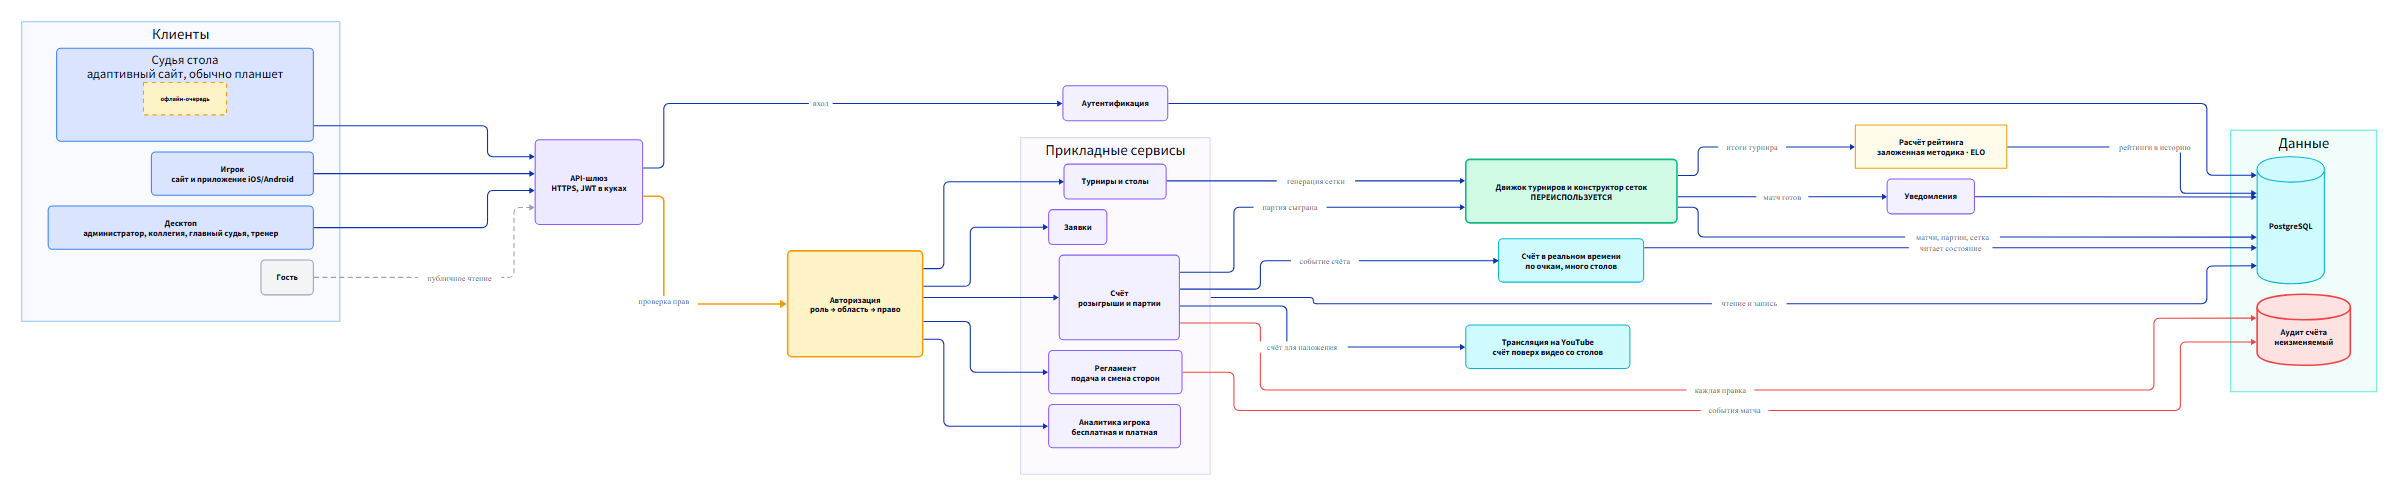
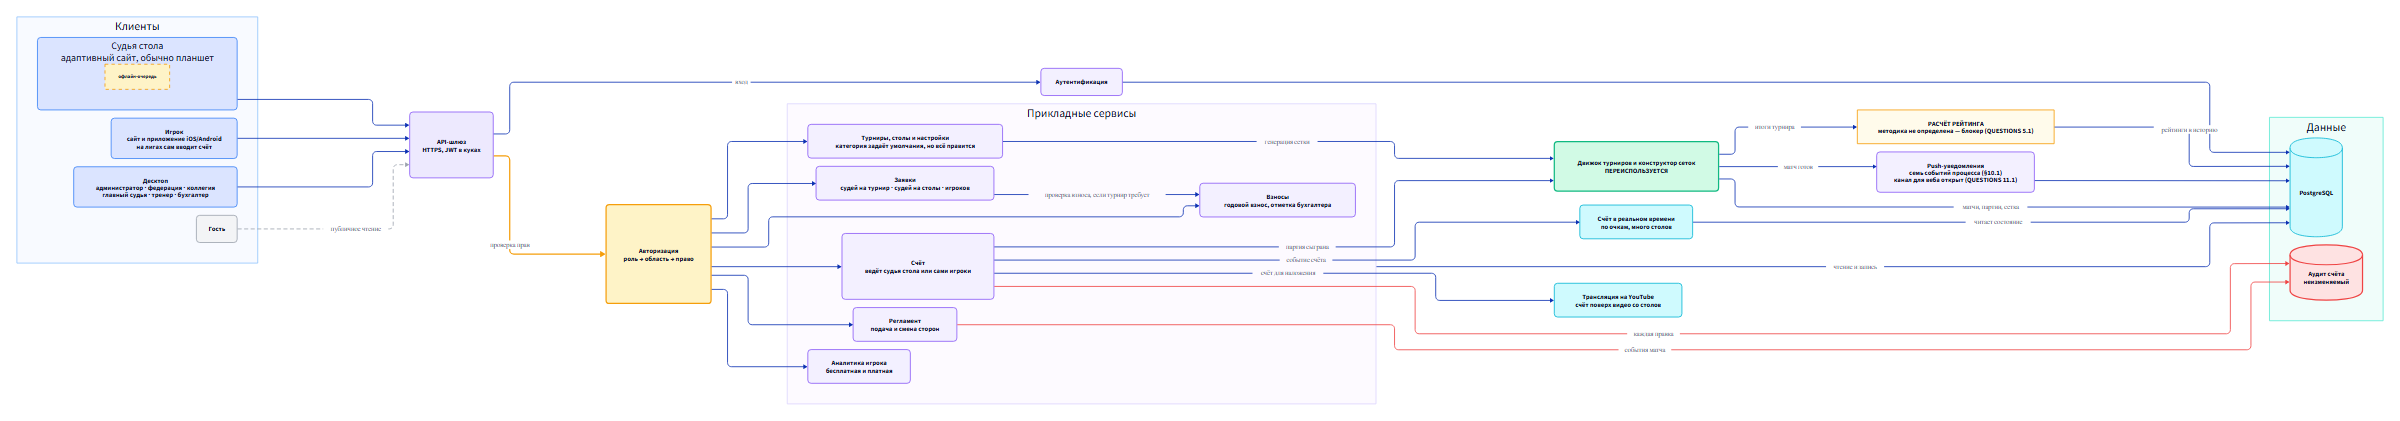
docs: системный дизайн под текущее ТЗ
ARCHITECTURE.md писался до трёх категорий турниров, девяти ролей, взносов
и ввода счёта самими игроками. Обновлены схема, mermaid и решения:

* девять ролей вместо семи, добавлены федерация, коллегия, бухгалтер
* сервис взносов: заявка проверяет взнос, но только если турнир требует
* счёт как два разных источника, а не два режима одного процесса
* push вынесен в решения: события известны, канал доставки нет
* категория турнира описана как набор флагов, а не enum с поведением

Главная правка по существу: рейтинг больше не заявлен как "ELO с
фиксированными коэффициентами". Это было наше предположение, а ТЗ §7.1
ссылается на несуществующее Приложение А. Теперь и в схеме, и в тексте
он помечен блокером со ссылкой на QUESTIONS 5.1.

diff --git a/ARCHITECTURE.md b/ARCHITECTURE.md
@@ -17,11 +17,18 @@
 | Роль | Устройство | Почему так |
 |---|---|---|
 | Администратор системы | **десктоп** | аккаунты, организации, настройки, публикация контента |
-| Главный судья | **десктоп** | создание и ведение турнира, конструктор сетки, назначения, модерация заявок |
+| Федерация | **десктоп** | полный доступ ко всему; смотрит, а не управляет |
+| Председатель судейской коллегии | **десктоп** | заводит турнир, назначает судью, утверждает систему проведения и протокол |
+| Главный судья турнира | **десктоп** | конструктор сетки, набор судей столов, заявки игроков, вызов пар |
 | Судья стола | **адаптивный сайт, обычно планшет** | ведёт протокол за столом; нужен крупный счёт и кнопки регламента; работает и с телефона |
+| Бухгалтер | **десктоп** | проверяет оплату годового взноса и отмечает её |
 | Тренер, представитель | **десктоп** | формирует список игроков, подаёт заявку |
-| Игрок | **сайт и приложение iOS/Android** | в зале между матчами и дома; смотрит свой матч и аналитику |
+| Игрок | **сайт и приложение iOS/Android** | в зале между матчами и дома; смотрит свой матч и аналитику. На лигах и любительских **сам вводит счёт** |
 | Гость | любое, веб | только чтение |
+
+Приложение есть только у игрока. Все остальные роли работают с адаптивного
+сайта, и это упирается в открытый вопрос: push в браузер это другая технология,
+а вызов на стол судье нужен мгновенно (QUESTIONS 11.1).
 
 ---
 
@@ -32,7 +39,7 @@ flowchart LR
     subgraph client ["Клиенты"]
         judgeTablet["Устройство судьи: адаптивный сайт, офлайн-очередь"]
         playerPhone["Игрок: сайт и приложение iOS/Android"]
-        adminDesktop["Десктоп: администратор системы, главный судья, тренер"]
+        adminDesktop["Десктоп: администратор, федерация, коллегия, главный судья, тренер, бухгалтер"]
         guestWeb["Гостевой просмотр"]
     end
     subgraph gateway ["API"]
@@ -41,16 +48,17 @@ flowchart LR
     subgraph service ["Сервисы"]
         authService["Аутентификация"]
         rbacService["Авторизация: роль, область, право"]
-        tournamentService["Турниры и столы"]
-        applicationService["Заявки"]
-        scoreService["Счёт: розыгрыши и партии"]
+        tournamentService["Турниры, столы и настройки: категория задаёт умолчания, но всё правится"]
+        applicationService["Заявки: судей на турнир, судей на столы, игроков"]
+        feeService["Взносы: годовой взнос, отметка бухгалтера"]
+        scoreService["Счёт: ведёт судья стола или сами игроки"]
         refereeService["Регламент: подача и смена сторон"]
         analyticsService["Аналитика игрока: бесплатная и платная"]
         liveService["Счёт в реальном времени по очкам: много столов"]
         broadcastService["Трансляция на YouTube: счёт поверх видео"]
-        notifyService["Уведомления"]
+        notifyService["Push-уведомления: семь событий процесса"]
         engine["Движок турниров и конструктор сеток: ПЕРЕИСПОЛЬЗУЕТСЯ"]
-        ratingService["Расчёт рейтинга: заложенная методика, ELO"]
+        ratingService["РАСЧЁТ РЕЙТИНГА: методика не определена, блокер"]
     end
     subgraph datastore ["Данные"]
         postgres["PostgreSQL"]
@@ -66,6 +74,8 @@ flowchart LR
     apiGateway -->|"Проверка прав"| rbacService
     apiGateway -->|"Турниры"| tournamentService
     apiGateway -->|"Заявки"| applicationService
+    apiGateway -->|"Взносы"| feeService
+    applicationService -->|"Проверка взноса, если турнир требует"| feeService
     apiGateway -->|"Счёт"| scoreService
     apiGateway -->|"Регламент"| refereeService
     apiGateway -->|"Аналитика"| analyticsService
@@ -84,6 +94,7 @@ flowchart LR
     authService -->|"Пользователи"| postgres
     rbacService -->|"Роли и области"| postgres
     applicationService -->|"Заявки"| postgres
+    feeService -->|"Состояние взноса за год"| postgres
     refereeService -->|"События матча"| postgres
     analyticsService -->|"История и винрейт"| postgres
     liveService -->|"Читает состояние"| postgres
@@ -104,19 +115,43 @@ flowchart LR
 видеть: всё, что внутри, не переписывается. Даёт стандартные форматы **и
 конструктор нестандартных сеток** (см. [TZ.md](TZ.md) §5).
 
-**Рейтинг — по заложенной методике.** Методика единая для всех турниров и
-определена в системе (ELO с фиксированными коэффициентами, см. [TZ.md](TZ.md)
-§7). Пересчёт запускается не по завершении матчей, а после того, как председатель
-судейской коллегии утвердил результаты турнира ([TZ.md](TZ.md) §4.5), и не
-задваивается при повторе. Считается рейтинг игроков и судей.
+**Рейтинг — методика не определена, и это блокер.** Раньше здесь стояло «ELO с
+фиксированными коэффициентами». Это было наше предположение, а не решение
+федерации: [TZ.md](TZ.md) §7.1 ссылается на Приложение А, которого не
+существует (QUESTIONS 5.1). Сервис в архитектуре остаётся — считать всё равно
+придётся, — но его содержимое пока пустое, и планировать сроки по нему нельзя.
+Что известно точно: пересчёт запускается не по завершении матчей, а после
+утверждения итогового протокола ([TZ.md](TZ.md) §4.8), не задваивается при
+повторе, и в него идут **все три категории турниров** ([TZ.md](TZ.md) §4.1).
 
-**Роли:** **Администратор системы** держит платформу (пользователи, организации,
-настройки, контент) и в судейство не входит. Судейство разделено на два уровня:
-**Председатель судейской коллегии** заводит турнир, назначает на него судью по
-заявке, утверждает организацию и принимает результаты; **Главный судья турнира**
-руководит одним турниром (собирает сетку, разбирает заявки игроков, вызывает
-пары, закрывает и сдаёт результат). Ниже — судья стола, тренер/представитель,
-игрок, гость. Всего семь ролей, см. [TZ.md](TZ.md) §2.
+**Роли: девять.** **Администратор системы** держит платформу и в судейство не
+входит. **Федерация** видит всё и ничем не управляет — это безопасно потому, что
+система именная и каждое действие записано с автором. Судейство разделено на два
+уровня: **председатель судейской коллегии** заводит турнир, назначает судью по
+заявке, утверждает систему проведения и итоговый протокол; **главный судья
+турнира** ведёт один турнир и вдобавок сам набирает судей столов (§4.5, наше
+допущение). Ниже — судья стола, бухгалтер, тренер, игрок, гость. См.
+[TZ.md](TZ.md) §2.
+
+**Категория турнира — это настройки, а не тип.** Республиканский, лига и
+любительский отличаются четырьмя переключателями: судьи на столах, годовой
+взнос, документы к заявке, участие коллегии ([TZ.md](TZ.md) §4.2). Категория
+задаёт им умолчания, но каждый правится под конкретный турнир. Поэтому в модели
+это не enum с зашитым поведением, а набор флагов на турнире: иначе любое
+исключение потребует новой категории.
+
+**Счёт вводит судья стола или сами игроки.** Там, где судей на столах нет
+(лига, любительский), счёт вводит один игрок, а второй подтверждает
+([TZ.md](TZ.md) §6.4). Для сервиса счёта это не два режима одного процесса, а
+два разных источника с разными правилами фиксации: во втором результат не
+считается принятым до подтверждения соперником. Прямой эфир и трансляция на
+YouTube во втором сценарии не работают — некому вести счёт по очкам.
+
+**Взносы — отдельный сервис.** Годовой взнос ведёт бухгалтер, а заявка игрока
+проверяет его состояние, но только если турнир этого требует ([TZ.md](TZ.md)
+§9.2). Отделён от заявок потому, что это деньги и учёт со своим жизненным циклом
+(год, просрочка), и потому, что связь между взносом и допуском сама по себе
+открытый вопрос (QUESTIONS 6.1).
 
 **Счёт в реальном времени — отдельный компонент, транспорт не выбран.**
 Обновление счёта у зрителей — архитектурное решение (частый опрос против
@@ -133,8 +168,17 @@ flowchart LR
 пользуется и сайтом, и приложением. Расширенная аналитика платная — единственная
 точка монетизации (см. [TZ.md](TZ.md) §11).
 
-**Аутентификация и авторизация разведены.** RBAC с шестью ролями и наследованием —
-ядро этого ТЗ, а не деталь входа по паролю.
+**Аутентификация и авторизация разведены.** RBAC с девятью ролями — ядро этого
+ТЗ, а не деталь входа по паролю. Роль это не глобальный флаг, а связка
+пользователя, роли и области: один человек бывает тренером в клубе А, судьёй
+стола на турнире Б и игроком на турнире В ([TZ.md](TZ.md) §2).
+
+**Push-уведомления — отдельный сервис, канал не выбран.** Семь событий процесса
+и их получатели перечислены в [TZ.md](TZ.md) §10.1. Нерешённое здесь не «какие
+события», а «куда доставлять»: приложение есть только у игрока, остальные роли
+работают с адаптивного сайта, а push в браузер это другая технология со своими
+ограничениями (QUESTIONS 11.1). Вызов на стол судье нужен мгновенно, и это самое
+узкое место.
 
 ---
 
